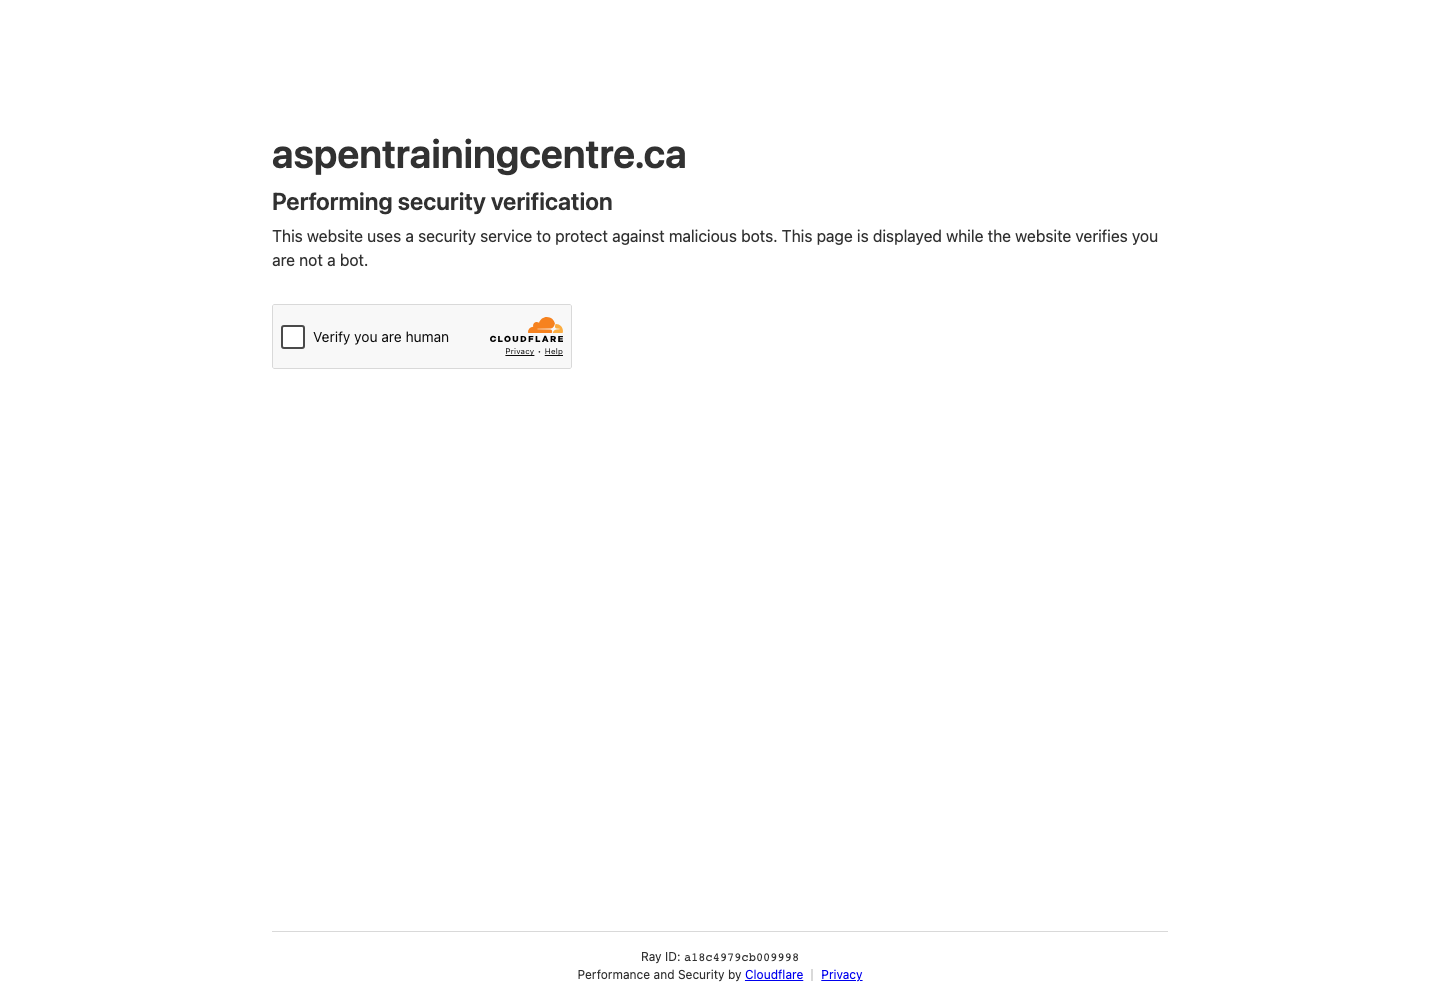
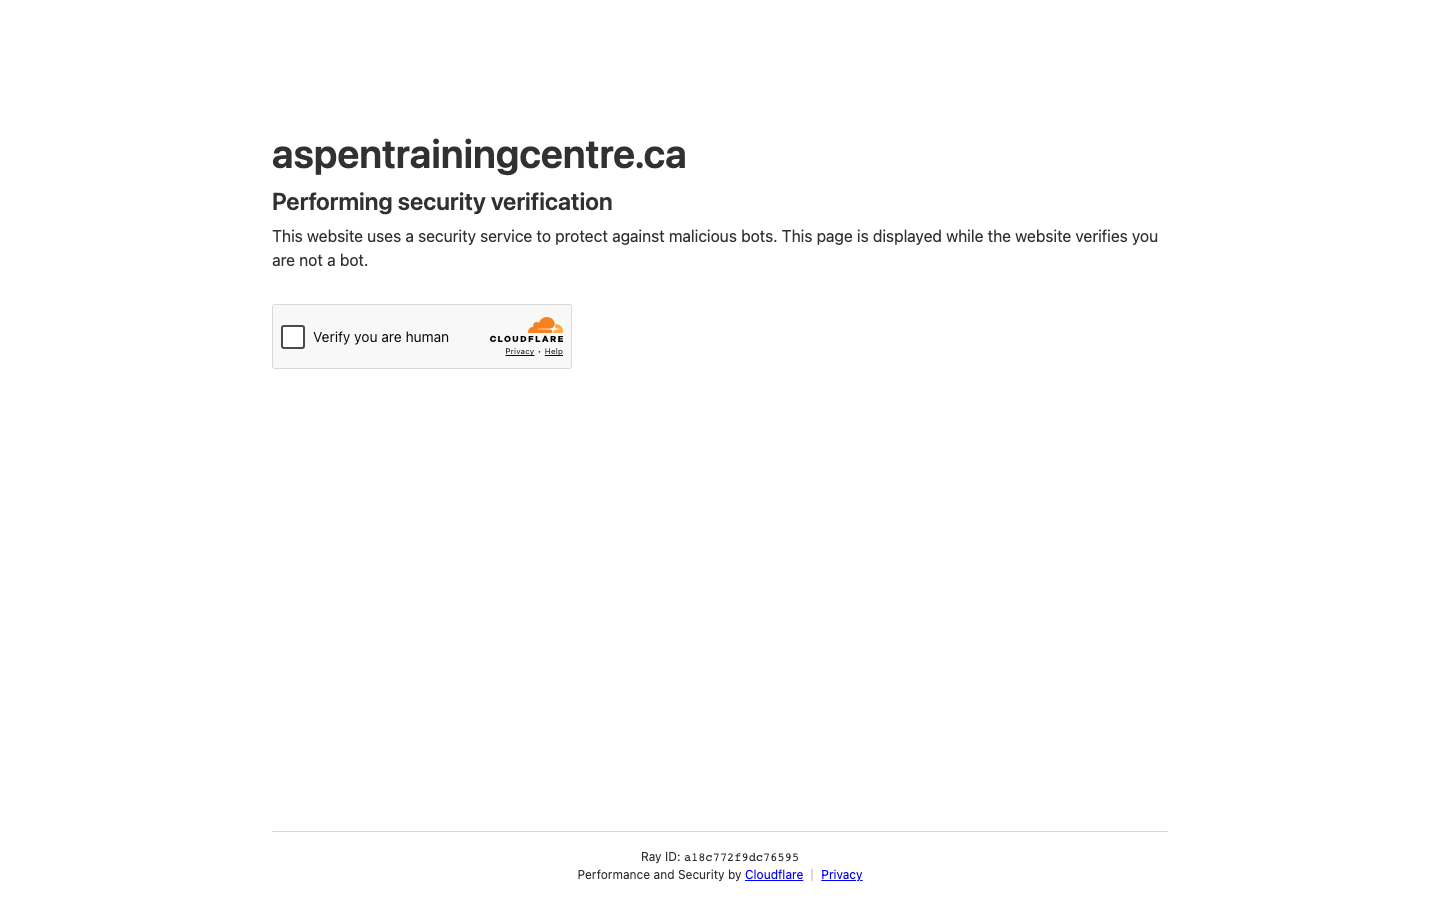
fix: retake aspen training centre screenshot, remove github links from client works

diff --git a/lib/projects.ts b/lib/projects.ts
@@ -946,7 +946,6 @@ export const projects: Project[] = [
       "Responsive marketing website for a Canadian vocational training centre — built with HTML, CSS, and JavaScript. No framework, no build step, no unnecessary complexity.",
     tags: ["HTML", "CSS", "JavaScript", "Responsive Design"],
     links: {
-      github: "https://github.com/suryalionael/aspen-training-centre-website",
       demo: "https://aspentrainingcentre.ca",
     },
     metrics: [
@@ -1019,7 +1018,6 @@ export const projects: Project[] = [
       "Heritage festival website for the Delta Mill Society — a two-day event site with programme details, venue histories, and ticketing. Built with HTML, CSS, and JavaScript.",
     tags: ["HTML", "CSS", "JavaScript", "Event Website"],
     links: {
-      github: "https://github.com/suryalionael/delta-harvest-festival",
       demo: "https://deltaharvestfestival.ca",
     },
     metrics: [
@@ -1092,7 +1090,6 @@ export const projects: Project[] = [
       "Academic portfolio for a human geographer and educator — a comprehensive personal site with biography, teaching experience, research, events, and publications. Built with HTML, CSS, and JavaScript.",
     tags: ["HTML", "CSS", "JavaScript", "Academic Portfolio"],
     links: {
-      github: "https://github.com/suryalionael/nel-coloma-moya-portfolio",
       demo: "https://nelcoloma-moya.ca",
     },
     metrics: [